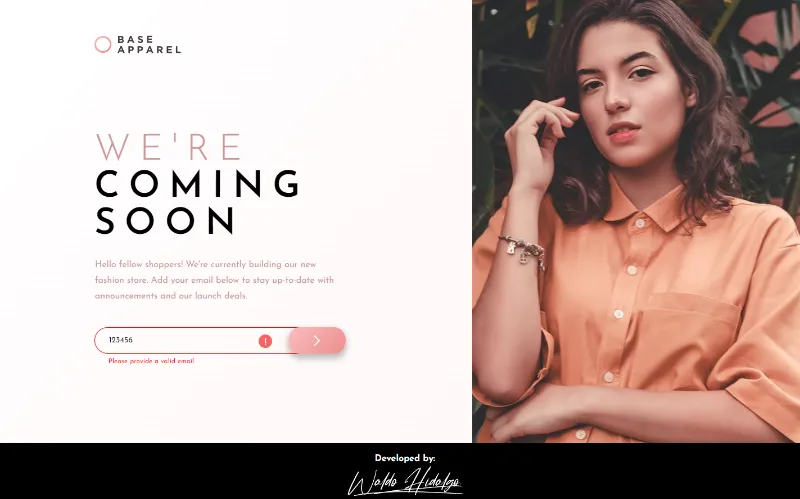
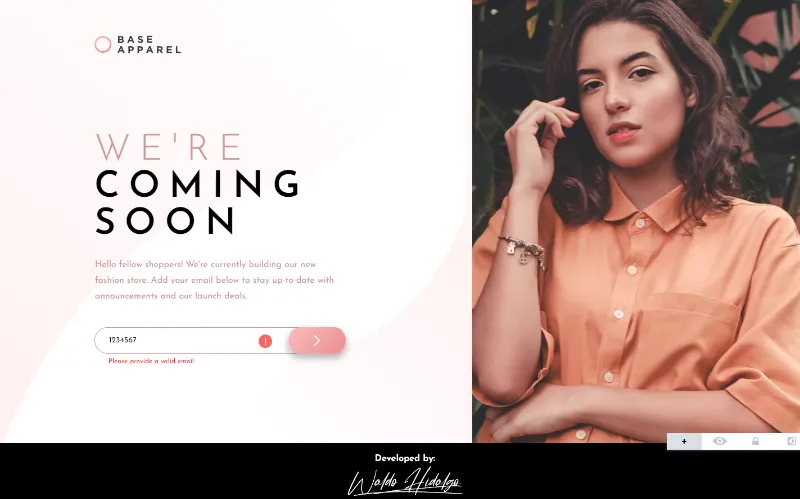
agrego patron en desktop sizes

Changed region(s): [[0.8125, 0.8417, 1.0, 0.9018], [0.125, 0.6313, 0.375, 0.6613], [0.1562, 0.6914, 0.2188, 0.7214]]

diff --git a/src/App.vue b/src/App.vue
@@ -33,7 +33,10 @@ export default {
       <img src="./assets/logo.svg" alt="logo" class="w-[100px]" />
     </div>
   </header>
-  <main class="pt-[32px] md:flex md:flex-row-reverse md:pt-0 bg-gradientFirst">
+  <main class="pt-[32px] md:flex md:flex-row-reverse md:pt-0 relative">
+    <div
+      class="absolute z-[-1] w-full h-full bg-[url('./assets/bg-pattern-desktop.svg')] hidden lg:block"
+    ></div>
     <section class="md:w-[41.7%]">
       <img
         class="w-full md:hidden"
